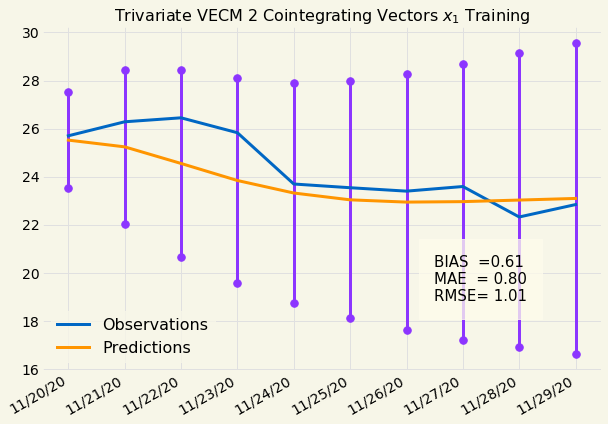
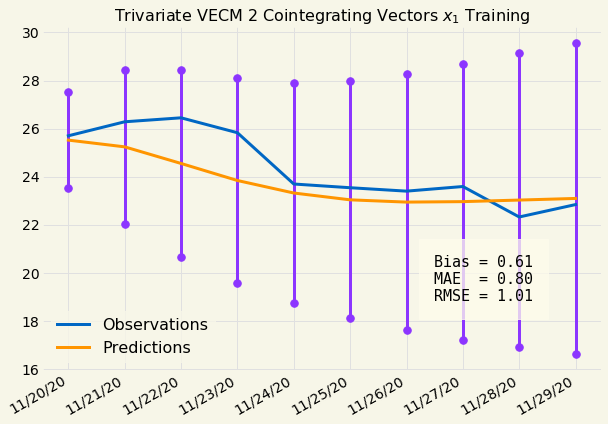
added training plots for all vars and fized data spacing issue

Changed region(s): [[0.8125, 0.5825, 0.875, 0.7358], [0.6875, 0.5825, 0.7812, 0.7358]]

diff --git a/lib/vecm.py b/lib/vecm.py
@@ -106,9 +106,10 @@ def training_plot(title, df, var, box_pos, plot):
     axis.xaxis.set_major_locator(mdates.DayLocator())
 
 
-    metrics = f"BIAS  ={format(bias(test, pred), '2.2f')}\nMAE  = {format(mae(test, pred), '2.2f')}\nRMSE= {format(rmse(test, pred), '2.2f')}"
+    metrics = f"Bias = {format(bias(test, pred), '2.2f')}\nMAE  = {format(mae(test, pred), '2.2f')}\nRMSE = {format(rmse(test, pred), '2.2f')}"
     bbox = dict(boxstyle='square,pad=1', facecolor="#FEFCEC", edgecolor="#FEFCEC", alpha=0.75)
-    axis.text(box_pos[0], box_pos[1], metrics, fontsize=15, bbox=bbox, transform=axis.transAxes)
+    font = {"family":"monospace"}
+    axis.text(box_pos[0], box_pos[1], metrics, fontsize=15, bbox=bbox, transform=axis.transAxes, fontdict=font)
 
     for i in range(n):
         axis.plot([time[i], time[i]], [lower[i], upper[i]], color='#8C35FF', marker='o', markersize=7.5)

diff --git a/hydrogen_notebooks/algorithmic_trading/mean_reversion/vecm_parameter_estimation_2.py b/hydrogen_notebooks/algorithmic_trading/mean_reversion/vecm_parameter_estimation_2.py
@@ -129,7 +129,21 @@ train = vecm.vecm_train(df, 1, rank, 10)
 
 # %%
 
+var = "x1"
 title = title_prefix + r" $x_1$ Training"
 plot = f"vecm_analysis_{example}_x1_training"
-var = "x1"
+vecm.training_plot(title, train, var, [0.7, 0.2], plot)
+
+# %%
+
+var = "x2"
+title = title_prefix + r" $x_2$ Training"
+plot = f"vecm_analysis_{example}_x2_training"
+vecm.training_plot(title, train, var, [0.7, 0.2], plot)
+
+# %%
+
+var = "x3"
+title = title_prefix + r" $x_3$ Training"
+plot = f"vecm_analysis_{example}_x3_training"
 vecm.training_plot(title, train, var, [0.7, 0.2], plot)
